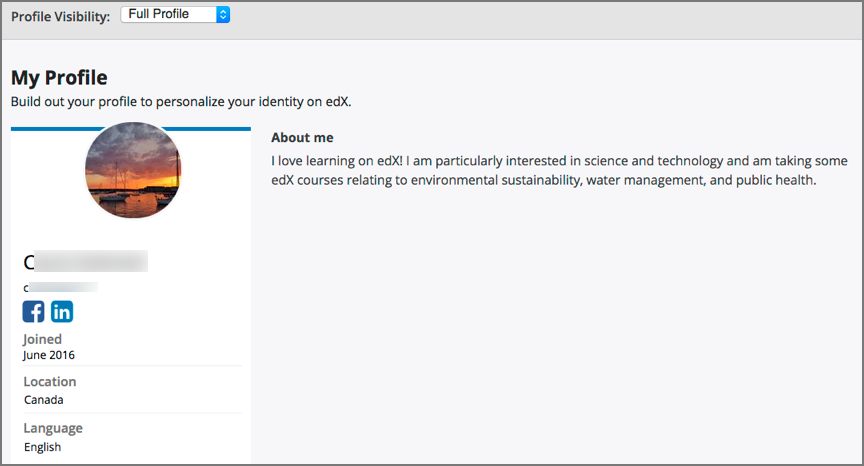
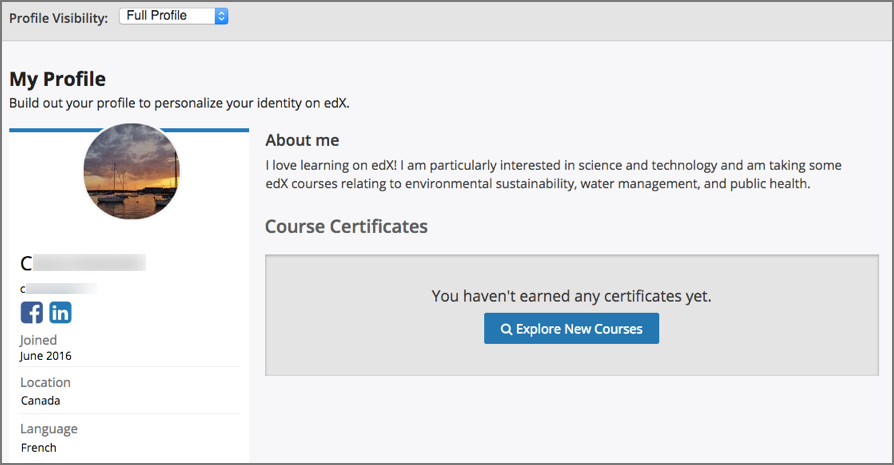
Add course certs

diff --git a/en_us/shared/students/SFD_dashboard_profile.rst b/en_us/shared/students/SFD_dashboard_profile.rst
@@ -154,18 +154,20 @@ You can share either a limited profile or a full profile.
 
   * your full name
   * your username
-  * your profile  (optional)
+  * your profile image (optional)
   * the date that you joined edX
   * your language (optional)
   * your location (optional)
   * information about you (optional)
+  * links to any course certificates that you have earned
   * links to your social media account (optional)
 
   .. image:: ../../shared/images/SFD_Profile_Full.png
     :width: 500
-    :alt: A learner's full profile shows full name, join date, location, language,
-      biographical information, and linked social media icons in addition to
-      username, and image.
+    :alt: A learner's full profile shows full name, join date, location,
+     language, biographical information, links to course certificates that you
+     have earned, and linked social media icons in addition to username and
+     profile image.
 
 
 .. _Create or Edit a Limited Profile:
